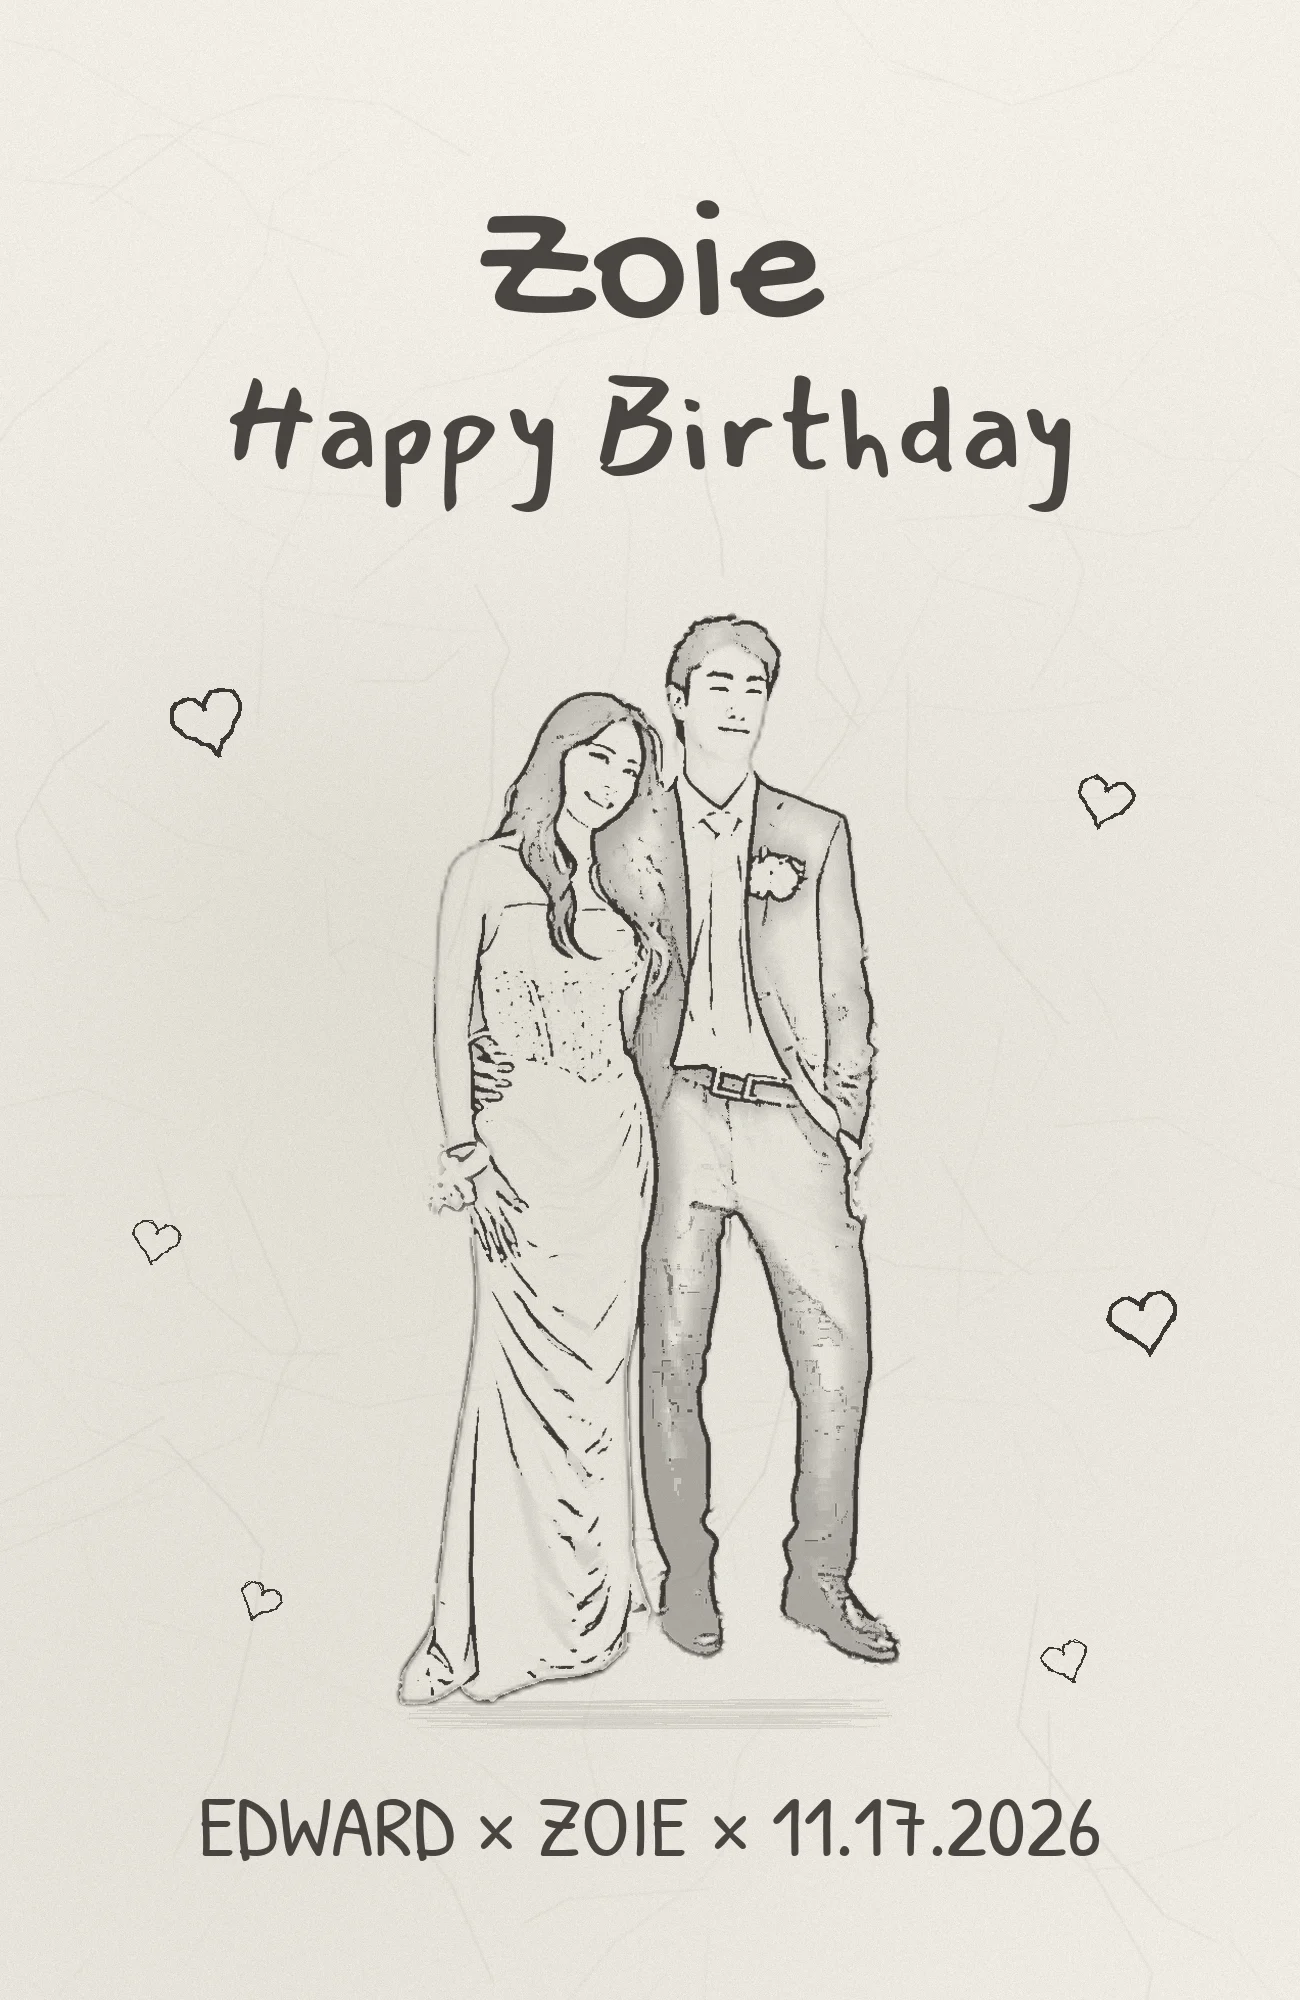
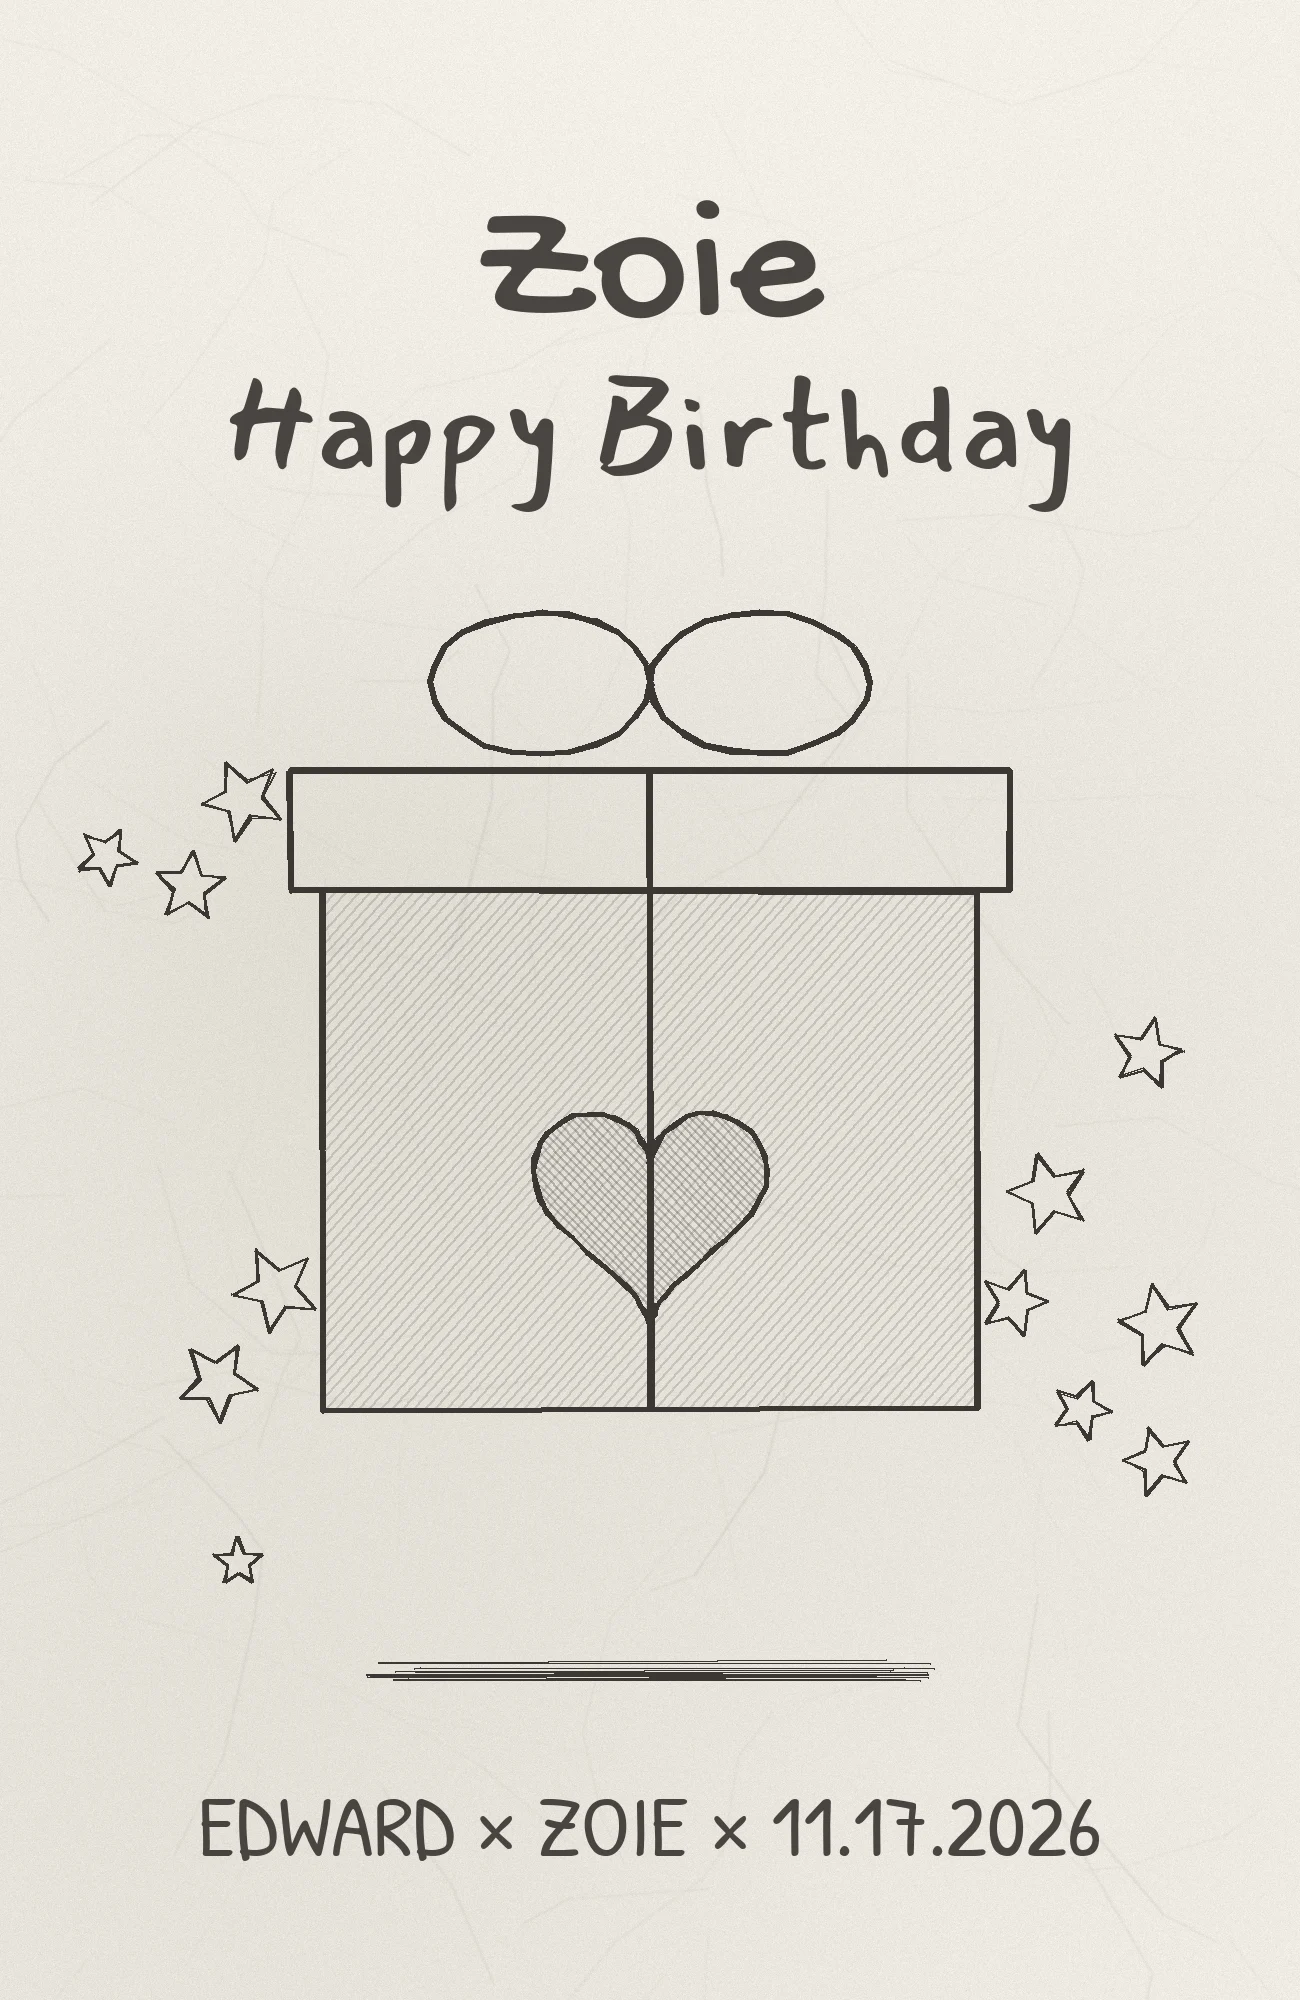
Box art: no photos of us, pencil doodles instead
Claude-Session: https://claude.ai/code/session_01NL2CSJLjtWH7qaAE7ZtJhZ

diff --git a/tools/box/box_art.py b/tools/box/box_art.py
@@ -7,13 +7,13 @@
   sides  : a grid of small pencil sketches with tiny captions + a small-print block
   back   : 4-col grid + small print + barcode
   top    : black label
-None of Pop Mart's art or logos: the sketches are made from Edward's own photos.
-Run: python3 tools/box/box_art.py   (needs rembg; writes assets/box/*.webp)
+None of Pop Mart's art or logos, and no photos of them on the box (Edward's call):
+the drawings are simple pencil doodles drawn here in code.
+Run: python3 tools/box/box_art.py   (writes assets/box/*.webp)
 """
 import os, sys, math, random
 import numpy as np
 from PIL import Image, ImageDraw, ImageFilter, ImageFont, ImageOps
-from rembg import remove, new_session
 
 HERE = os.path.dirname(__file__); ROOT = os.path.join(HERE, "..", "..")
 OUT = os.path.join(ROOT, "assets", "box"); os.makedirs(OUT, exist_ok=True)
@@ -49,38 +49,6 @@ def paper(w, h, seed):
     im = Image.composite(grey, im, cr)
     return im.convert("RGBA")
 
-# ------------------------------------------------------------------ pencil sketch of a photo
-_sess = None
-def xdog(g, s, k=1.6, p=22, eps=-0.015, phi=12):
-    a = np.asarray(g.filter(ImageFilter.GaussianBlur(s)), float) / 255
-    b = np.asarray(g.filter(ImageFilter.GaussianBlur(s * k)), float) / 255
-    dd = (1 + p) * a - p * b
-    return np.where(dd >= eps, 1.0, 1 + np.tanh(phi * (dd - eps)))
-
-def sketch(n, H=1400, shade_k=0.32):
-    key = f"{CACHE}/{n}_{H}.png"
-    if os.path.exists(key): return Image.open(key)
-    global _sess
-    if _sess is None: _sess = new_session("u2net_human_seg")
-    src = os.path.join(ROOT, "photos", "full", f"{n}.webp")
-    if not os.path.exists(src): src = os.path.join(ROOT, "photos", "thumb", f"{n}.webp")   # clips: their still
-    im = Image.open(src).convert("RGB")
-    im = im.resize((round(im.width * H / im.height), H), Image.LANCZOS)
-    m = np.asarray(remove(im, session=_sess).split()[-1], float) / 255
-    g = ImageOps.autocontrast(ImageOps.grayscale(im), cutoff=1)
-    lines = xdog(g, max(0.8, H / 1200))
-    inv = ImageOps.invert(g).filter(ImageFilter.GaussianBlur(H / 100))
-    G, I = np.asarray(g, float), np.asarray(inv, float)
-    dodge = np.clip(G * 255 / (255 - I + 1e-3), 0, 255) / 255
-    v = np.minimum(lines, 1 - (1 - dodge) * shade_k)
-    M = Image.fromarray((m * 255).astype("uint8"))
-    edge = np.asarray(M.filter(ImageFilter.FIND_EDGES).filter(ImageFilter.GaussianBlur(H / 1600)), float) / 255
-    v = np.minimum(v, 1 - np.clip(edge * 2.2, 0, 0.8))
-    a = np.clip((1 - v) * m * 1.1, 0, 1)
-    rgba = np.zeros((*a.shape, 4), "uint8"); rgba[..., :3] = INK; rgba[..., 3] = (a * 255).astype("uint8")
-    o = Image.fromarray(rgba); o = o.crop(o.getbbox()); o.save(key)
-    return o
-
 # ------------------------------------------------------------------ little hand drawings
 def pencil_line(d, pts, w=4, col=INK + (210,)):
     for j in range(2):                      # gone over twice, slightly off
@@ -106,48 +74,129 @@ def text_fit(d, txt, font_path, cx, cy, width, col=INK + (235,), rot=0, canvas=N
     if rot: layer = layer.rotate(rot, resample=Image.BICUBIC, expand=True)
     canvas.alpha_composite(layer, (int(cx - layer.width / 2), int(cy - layer.height / 2)))
 
-# ------------------------------------------------------------------ faces
-FRONT_PHOTO = "18"
-GRID = ["04", "10", "21", "25", "33", "40", "41", "45", "49", "52", "56", "58",
-        "26", "53", "07", "12", "16", "24", "54", "61", "64",
-        "08", "38", "44", "51", "55", "22", "03", "31", "13"]
+# ------------------------------------------------------------------ pencil doodles (no photos on the box)
+def wob(pts, amt=1.6):
+    return [(x + rng.uniform(-amt, amt), y + rng.uniform(-amt, amt)) for x, y in pts]
+def stroke(d, pts, w, closed=False):
+    if closed: pts = pts + pts[:1]
+    for j, k in enumerate((1.0, 0.5)):        # gone over twice, slightly off
+        d.line(wob(pts), fill=INK + (int(215 * k),), width=max(1, w - j), joint="curve")
+def circle_pts(cx, cy, rx, ry, n=48, a0=0, a1=2 * math.pi):
+    return [(cx + rx * math.cos(a0 + (a1 - a0) * i / n), cy + ry * math.sin(a0 + (a1 - a0) * i / n)) for i in range(n + 1)]
+def hatch(im, poly, spacing, w=2, ang=0.8, alpha=70):
+    m = Image.new("L", im.size, 0); ImageDraw.Draw(m).polygon(poly, fill=255)
+    lay = Image.new("RGBA", im.size, (0, 0, 0, 0)); ld = ImageDraw.Draw(lay)
+    W_, H_ = im.size; L = W_ + H_
+    for o in range(-L, L, spacing):
+        x0, y0 = o, 0; x1, y1 = o + math.cos(ang) * L, math.sin(ang) * L
+        ld.line([(x0 + rng.uniform(-2, 2), y0), (x1, y1)], fill=INK + (alpha,), width=w)
+    a = np.asarray(lay).copy(); a[..., 3] = (a[..., 3].astype(float) * np.asarray(m) / 255).astype("uint8")
+    im.alpha_composite(Image.fromarray(a))
+def heart_pts(cx, cy, s, n=60):
+    out = []
+    for i in range(n + 1):
+        t = i / n * 2 * math.pi
+        x = 16 * math.sin(t) ** 3; y = -(13 * math.cos(t) - 5 * math.cos(2 * t) - 2 * math.cos(3 * t) - math.cos(4 * t))
+        out.append((cx + x * s / 32, cy + y * s / 32))
+    return out
+def star_pts(cx, cy, r, rot=-math.pi / 2):
+    return [(cx + (r if i % 2 == 0 else r * 0.45) * math.cos(rot + i * math.pi / 5), cy + (r if i % 2 == 0 else r * 0.45) * math.sin(rot + i * math.pi / 5)) for i in range(10)]
 
+def doodle(im, kind, cx, cy, s, w=3):
+    d = ImageDraw.Draw(im)
+    if kind == "heart":
+        p = heart_pts(cx, cy, s * 1.6); hatch(im, p, 9, ang=0.9); stroke(d, p, w)
+    elif kind == "star":
+        p = star_pts(cx, cy, s * 0.8); stroke(d, p, w, True)
+    elif kind == "moon":
+        a = circle_pts(cx, cy, s * 0.7, s * 0.7, 40, math.pi * 0.42, math.pi * 1.58); b = circle_pts(cx + s * 0.28, cy - s * 0.05, s * 0.56, s * 0.56, 40, math.pi * 1.42, math.pi * 0.58)
+        p = a + b; hatch(im, p, 9); stroke(d, p, w, True)
+    elif kind == "flower":
+        for k in range(5):
+            ang = k * 2 * math.pi / 5; px, py = cx + math.cos(ang) * s * 0.36, cy - s * 0.25 + math.sin(ang) * s * 0.36
+            stroke(d, circle_pts(px, py, s * 0.24, s * 0.24, 24), w)
+        stroke(d, circle_pts(cx, cy - s * 0.25, s * 0.12, s * 0.12, 16), w)
+        stroke(d, [(cx, cy - s * 0.05), (cx - s * 0.05, cy + s * 0.4), (cx, cy + s * 0.85)], w)
+        stroke(d, [(cx - s * 0.03, cy + s * 0.45), (cx - s * 0.32, cy + s * 0.3), (cx - s * 0.05, cy + s * 0.55)], w)
+    elif kind == "gift":
+        x0, y0, x1, y1 = cx - s * 0.6, cy - s * 0.2, cx + s * 0.6, cy + s * 0.75
+        box = [(x0, y0), (x1, y0), (x1, y1), (x0, y1)]; hatch(im, box, 11, ang=2.3, alpha=45); stroke(d, box, w, True)
+        stroke(d, [(x0 - s * 0.06, y0 - s * 0.22), (x1 + s * 0.06, y0 - s * 0.22), (x1 + s * 0.06, y0), (x0 - s * 0.06, y0)], w, True)
+        stroke(d, [(cx, y0 - s * 0.22), (cx, y1)], w)
+        stroke(d, circle_pts(cx - s * 0.2, y0 - s * 0.38, s * 0.2, s * 0.13, 24), w); stroke(d, circle_pts(cx + s * 0.2, y0 - s * 0.38, s * 0.2, s * 0.13, 24), w)
+    elif kind == "cake":
+        x0, x1 = cx - s * 0.65, cx + s * 0.65
+        stroke(d, [(x0, cy), (x0, cy + s * 0.7), (x1, cy + s * 0.7), (x1, cy)], w)
+        stroke(d, circle_pts(cx, cy, s * 0.65, s * 0.16, 40), w)
+        stroke(d, [(x0, cy + s * 0.32)] + [(x0 + (x1 - x0) * i / 8, cy + s * (0.32 + 0.08 * (i % 2))) for i in range(9)], w - 1)
+        for k in (-0.3, 0, 0.3):
+            stroke(d, [(cx + k * s, cy - s * 0.05), (cx + k * s, cy - s * 0.45)], w)
+            stroke(d, [(cx + k * s, cy - s * 0.5), (cx + k * s - s * 0.07, cy - s * 0.6), (cx + k * s, cy - s * 0.75), (cx + k * s + s * 0.07, cy - s * 0.6), (cx + k * s, cy - s * 0.5)], w - 1)
+    elif kind == "envelope":
+        x0, y0, x1, y1 = cx - s * 0.75, cy - s * 0.45, cx + s * 0.75, cy + s * 0.5
+        stroke(d, [(x0, y0), (x1, y0), (x1, y1), (x0, y1)], w, True); stroke(d, [(x0, y0), (cx, cy + s * 0.1), (x1, y0)], w)
+        p = heart_pts(cx, cy + s * 0.1, s * 0.35); hatch(im, p, 6); stroke(d, p, w - 1)
+    elif kind == "camera":
+        x0, y0, x1, y1 = cx - s * 0.75, cy - s * 0.35, cx + s * 0.75, cy + s * 0.55
+        stroke(d, [(x0, y0), (cx - s * 0.25, y0), (cx - s * 0.15, y0 - s * 0.2), (cx + s * 0.25, y0 - s * 0.2), (cx + s * 0.35, y0), (x1, y0), (x1, y1), (x0, y1)], w, True)
+        stroke(d, circle_pts(cx, cy + s * 0.1, s * 0.3, s * 0.3), w); p = circle_pts(cx, cy + s * 0.1, s * 0.16, s * 0.16); hatch(im, p, 5); stroke(d, p, w - 1)
+    elif kind == "balloon":
+        p = circle_pts(cx, cy - s * 0.25, s * 0.45, s * 0.55); hatch(im, p, 10, ang=2.2, alpha=55); stroke(d, p, w)
+        stroke(d, [(cx, cy + s * 0.3), (cx - s * 0.1, cy + s * 0.5), (cx + s * 0.08, cy + s * 0.7), (cx - s * 0.04, cy + s * 0.95)], w - 1)
+    elif kind == "sun":
+        stroke(d, circle_pts(cx, cy, s * 0.35, s * 0.35), w)
+        for k in range(10):
+            a = k * math.pi / 5; stroke(d, [(cx + math.cos(a) * s * 0.5, cy + math.sin(a) * s * 0.5), (cx + math.cos(a) * s * 0.78, cy + math.sin(a) * s * 0.78)], w)
+    elif kind == "cloud":
+        p = (circle_pts(cx - s * 0.4, cy + s * 0.1, s * 0.3, s * 0.28, 20, math.pi * 0.5, math.pi * 1.6) + circle_pts(cx - s * 0.05, cy - s * 0.12, s * 0.38, s * 0.36, 24, math.pi * 1.1, math.pi * 1.95)
+             + circle_pts(cx + s * 0.42, cy + s * 0.08, s * 0.3, s * 0.3, 20, math.pi * 1.4, math.pi * 2.5))
+        stroke(d, p, w, True)
+    elif kind == "ring":
+        stroke(d, circle_pts(cx, cy + s * 0.2, s * 0.5, s * 0.5), w); stroke(d, circle_pts(cx, cy + s * 0.2, s * 0.38, s * 0.38), w - 1)
+        p = [(cx - s * 0.2, cy - s * 0.32), (cx + s * 0.2, cy - s * 0.32), (cx + s * 0.3, cy - s * 0.45), (cx, cy - s * 0.75), (cx - s * 0.3, cy - s * 0.45)]
+        hatch(im, p, 6, alpha=60); stroke(d, p, w, True)
+
+KINDS = ["heart", "star", "moon", "flower", "gift", "cake", "envelope", "camera", "balloon", "sun", "cloud", "ring"]
+LABEL = {"heart": "heart", "star": "star", "moon": "moon", "flower": "flower", "gift": "gift", "cake": "cake", "envelope": "letter", "camera": "camera", "balloon": "balloon", "sun": "sun", "cloud": "cloud", "ring": "ring"}
+
+def scatter_stars(im, n, box, seed):
+    r = random.Random(seed); d = ImageDraw.Draw(im)
+    x0, y0, x1, y1 = box
+    for _ in range(n):
+        x, y = r.uniform(x0, x1), r.uniform(y0, y1); s = r.uniform(24, 46)
+        stroke(d, star_pts(x, y, s, r.uniform(-0.6, 0.6) - math.pi / 2), 3, True)
+
+# ------------------------------------------------------------------ faces
 def front():
     im = paper(FW, FH, 1); d = ImageDraw.Draw(im)
     text_fit(d, "Zoie", F_MARK, FW * 0.5, FH * 0.13, FW * 0.27, canvas=im)
     text_fit(d, "Happy Birthday", F_SCRIPT, FW * 0.5, FH * 0.222, FW * 0.66, canvas=im)
-    sk = sketch(FRONT_PHOTO, 1600)
-    h = int(FH * 0.56); w = int(sk.width * h / sk.height)
-    if w > FW * 0.62: w = int(FW * 0.62); h = int(sk.height * w / sk.width)
-    sk = sk.resize((w, h), Image.LANCZOS)
-    top = int(FH * 0.30)
-    # soft pencil ground shadow under the feet
-    sh = Image.new("RGBA", (int(w * 0.95), 70), (0, 0, 0, 0)); sd = ImageDraw.Draw(sh)
-    for i in range(46):
-        y = 35 + rng.uniform(-14, 14); x0 = rng.uniform(0, w * 0.2); x1 = w * 0.95 - rng.uniform(0, w * 0.2)
-        sd.line([(x0, y), (x1, y + rng.uniform(-4, 4))], fill=INK + (rng.randint(14, 34),), width=2)
-    im.alpha_composite(sh, (int(FW / 2 - sh.width / 2), top + h - 40))
-    im.alpha_composite(sk, (int(FW / 2 - w / 2), top))
-    for (fx, fy, s, r) in [(0.16, 0.36, 70, -0.3), (0.85, 0.40, 54, 0.25), (0.12, 0.62, 46, 0.2), (0.88, 0.66, 66, -0.2), (0.2, 0.80, 40, 0.4), (0.82, 0.83, 44, -0.35)]:
-        heart(d, FW * fx, FH * fy, s, r)
+    # the figure's place: one big pencil drawing, a gift box tied with a bow, a heart on it
+    doodle(im, "gift", FW * 0.5, FH * 0.5, FW * 0.42, w=6)
+    p = heart_pts(FW * 0.5, FH * 0.6, FW * 0.18); hatch(im, p, 8); stroke(d, p, 5)
+    # ground line under it, like the figure's little planet
+    for i in range(14):
+        y = FH * 0.835 + rng.uniform(-10, 10)
+        d.line([(FW * 0.28 + rng.uniform(0, 60), y), (FW * 0.72 - rng.uniform(0, 60), y + rng.uniform(-3, 3))], fill=INK + (rng.randint(8, 20),), width=2)
+    scatter_stars(im, 6, (FW * 0.08, FH * 0.32, FW * 0.22, FH * 0.82), 5)
+    scatter_stars(im, 6, (FW * 0.78, FH * 0.32, FW * 0.92, FH * 0.82), 6)
     text_fit(d, "EDWARD × ZOIE × 11.17.2026", F_SC, FW * 0.5, FH * 0.915, FW * 0.70, canvas=im)
     return im
 
-def grid_face(nums, cols, rows, y0, y1, seed, start_no):
+def grid_face(kinds, cols, rows, y0, y1, seed, start_no):
     im = paper(FW, FH, seed); d = ImageDraw.Draw(im)
     f = ImageFont.truetype(F_SC, 34)
     cw = FW * 0.86 / cols; ch = (y1 - y0) / rows
-    for i, n in enumerate(nums[: cols * rows]):
+    for i, k in enumerate(kinds[: cols * rows]):
         c, r = i % cols, i // cols
         cx = FW * 0.07 + cw * (c + 0.5); cy = y0 + ch * r
-        sk = sketch(n, 900, 0.22)
-        h = int(ch * 0.74); w = int(sk.width * h / sk.height)
-        if w > cw * 0.86: w = int(cw * 0.86); h = int(sk.height * w / sk.width)
-        sk = sk.resize((w, h), Image.LANCZOS)
-        im.alpha_composite(sk, (int(cx - w / 2), int(cy + ch * 0.78 - h)))
-        lab = f"no. {start_no + i:02d}"
+        doodle(im, k, cx, cy + ch * 0.42, min(cw, ch) * 0.36)
+        lab = f"no. {start_no + i:02d}  {LABEL[k]}"
         bb = d.textbbox((0, 0), lab, font=f); d.text((cx - (bb[2] - bb[0]) / 2, cy + ch * 0.81), lab, font=f, fill=INK + (215,))
     return im, d
+
+_r = random.Random(11)
+GRID = _r.sample(KINDS, 9) + _r.sample(KINDS, 12) + _r.sample(KINDS, 9)     # no repeats on one face
 
 def small_print(d, x, y, lines, size=30):
     f = ImageFont.truetype(F_SC, size)
